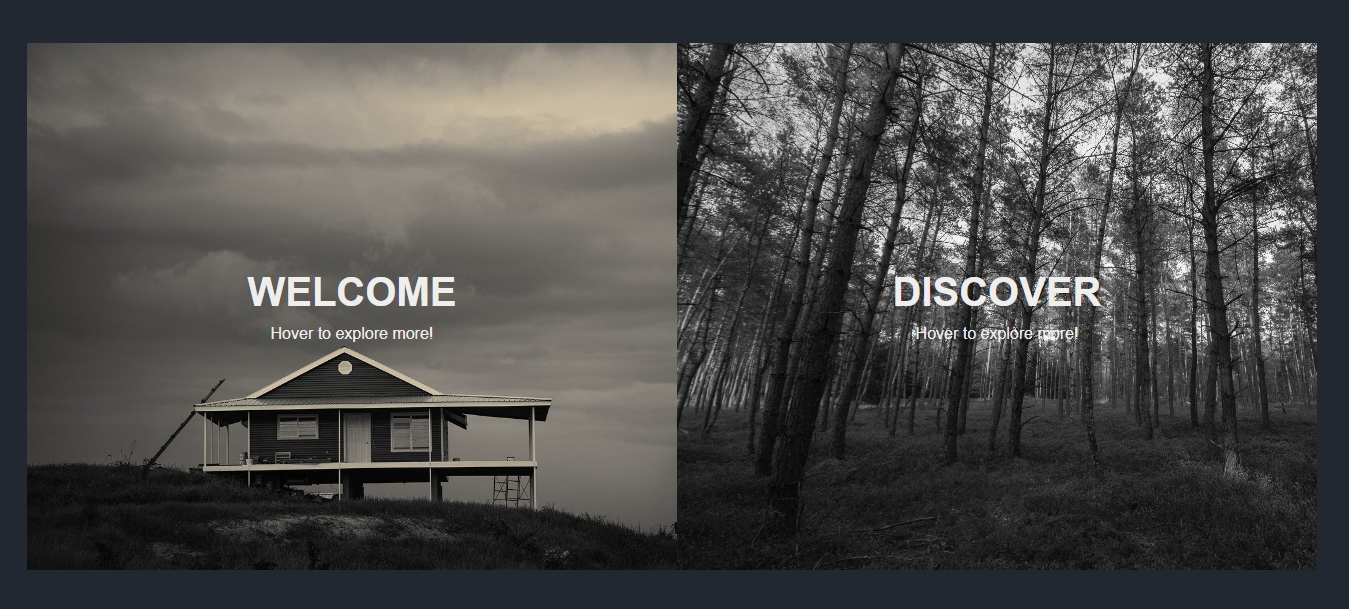
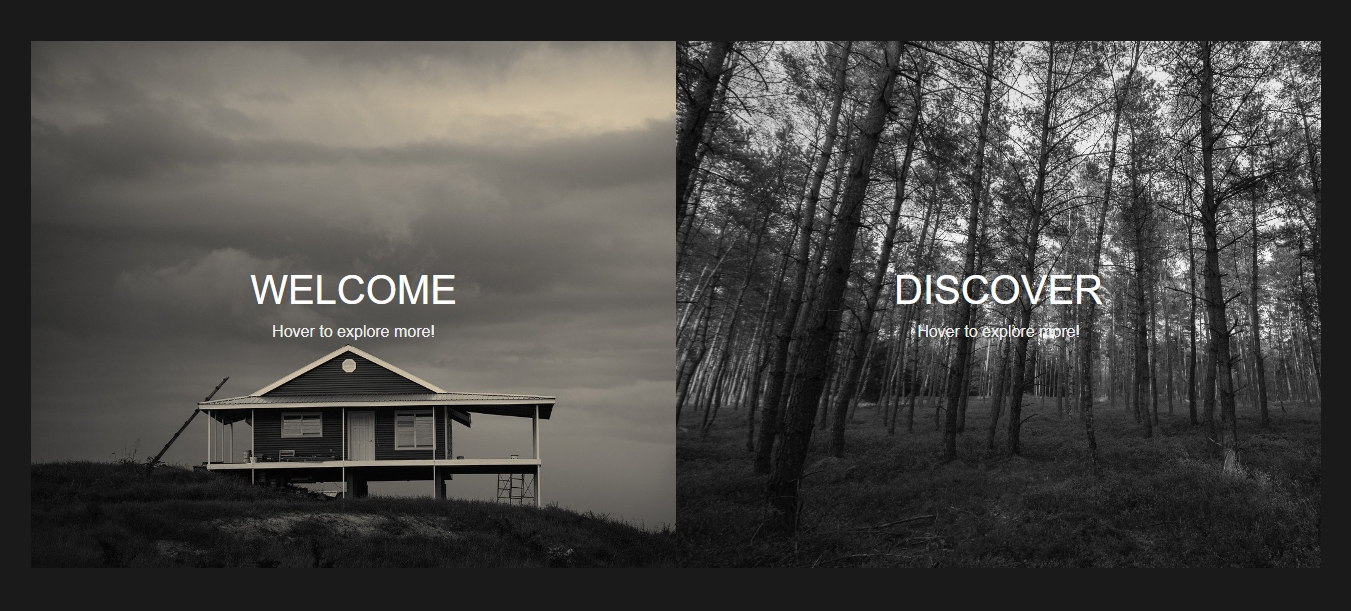
Updated 06 CSS

diff --git a/06.Split-Landing-Page/style.css b/06.Split-Landing-Page/style.css
@@ -1,27 +1,16 @@
-:root {
-    --blue-grey-color: #222831;
-    --white-color: #eeeeee;
-    --green-color: rgb(123, 199, 77);
-    --grey-color: #393e46;
-}
+@import url(../Assests/styles/main.css);
 
-* {
-    margin: 0;
-    padding: 0;
-    box-sizing: border-box;
-}
 
 body {
-    font-family: Arial, sans-serif;
+    font-family: Arial, Helvetica, sans-serif;
     height: 100vh;
-    display: flex;
-    justify-content: center;
-    align-items: center;
-    background-color: var(--blue-grey-color);
+    background-color: var(--dark-grey);
     color: var(--white-color);
     overflow: hidden;
 }
-
+h1{
+    font-family: Arial, Helvetica, sans-serif;
+}
 .container {
     width: 95%;
     height: 85%;
